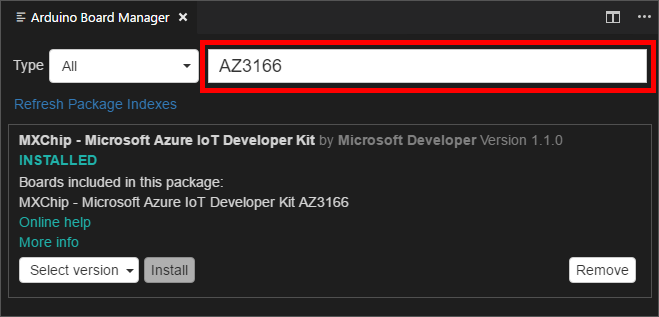
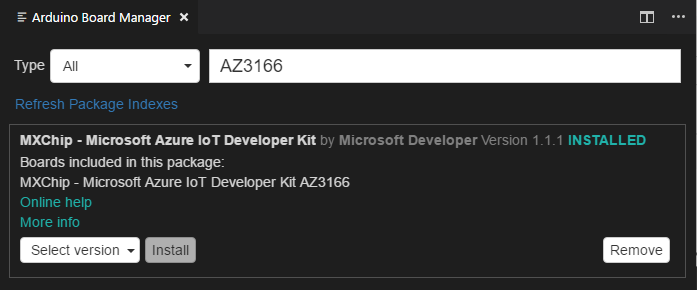
Updated HOL 1

Changed region(s): [[0.0, 0.1241, 1.0, 0.9621], [0.0, 0.0, 1.0, 0.0931], [0.0, 0.9931, 1.0, 1.0]]

diff --git a/HOL 2/HOL 2 - Functions and Event Hubs.md b/HOL 2/HOL 2 - Functions and Event Hubs.md
@@ -8,7 +8,7 @@
 
 In Lab 1, you configured an [MXChip](https://microsoft.github.io/azure-iot-developer-kit/) to transmit accelerometer data to an Azure IoT Hub. That IoT Hub receives a stream of data revealing the device's 3D orientation in space. It knows, for example, whether the device is tilted forward or backward (and by how much), and it knows when the device is rotated left and right. The app that you uploaded to the device transmits an event containing X, Y, and Z accelerometer readings every two seconds.
 
-In Lab 2, you will build the infrastructure necessary to fly a simulated aircraft using your MXChip. That infrastructure will consist of an Azure function that transforms accelerometer readings passing through the IoT Hub into flight data denoting the position and attitude of an aircraft, as well as an Azure Event Hub that receives data from the function. Once the function and Event Hub are in place, you will connect a client app named **FlySim** to the Event Hub and practice flying an aircraft using your MXChip. The client app, pictured below, subscribes to events from the Event Hub and shows the position and attitude of your aircraft in real time.
+In Lab 2, you will build the infrastructure necessary to fly a simulated aircraft using your MXChip. That infrastructure will consist of an Azure Function that transforms accelerometer readings passing through the IoT Hub into flight data denoting the position and attitude of an aircraft, as well as an Azure Event Hub that receives data from the Azure function. Once the Function and Event Hub are in place, you will connect a client app named **FlySim** to the Event Hub and practice flying an aircraft using your MXChip. The client app, pictured below, subscribes to events from the Event Hub and shows the position and attitude of your aircraft in real time.
 
 ![](Images/app-in-flight.png)
 
@@ -115,9 +115,9 @@ Now that the storage account has been created, it's time to create an Azure func
 <a name="Exercise3"></a>
 ## Exercise 3: Write an Azure function to transform data ##
 
-[Azure functions](https://azure.microsoft.com/services/functions/) enable you to deploy code to the cloud and execute it there without separately spinning up virtual machines (VMs) or other infrastructure to host them. They can be written in a number of languages, including C#, F#, JavaScript, Python, Bash, and PowerShell, and they are easily connected to IoT Hubs and Event Hubs.
+[Azure Functions](https://azure.microsoft.com/services/functions/) enable you to deploy code to the cloud and execute it there without separately spinning up virtual machines (VMs) or other infrastructure to host them. They can be written in a number of languages, including C#, F#, JavaScript, Python, Bash, and PowerShell, and they are easily connected to IoT Hubs and Event Hubs.
 
-You can write Azure functions in the Azure Portal, or you can write them in Visual Studio 2017. In this exercise, you will use Visual Studio 2017 to write an Azure function that transforms raw accelerometer data arriving at the IoT Hub you created in Lab 1 into flight data denoting the latitude, longitude, altitude, airspeed, heading, and attitude (pitch and roll) of an aircraft, and that transmits the transformed data to the Event Hub you created in [Exercise 1](#Exercise1). 
+You can write Azure Functions in the Azure Portal, or you can write them in Visual Studio 2017. In this exercise, you will use Visual Studio 2017 to write an Azure function that transforms raw accelerometer data arriving at the IoT Hub you created in Lab 1 into flight data denoting the latitude, longitude, altitude, airspeed, heading, and attitude (pitch and roll) of an aircraft, and that transmits the transformed data to the Event Hub you created in [Exercise 1](#Exercise1). 
 
 1. Start Visual Studio 2017 and use the **Help** > **About Microsoft Visual Studio** command to verify that you are running Visual Studio 15.3 or higher. If not, update Visual Studio now.
 

diff --git a/HOL 1/HOL 1 - MXChip.md b/HOL 1/HOL 1 - MXChip.md
@@ -126,7 +126,7 @@ In order to write code and upload it to the MXChip, you need to set up a develop
  
 1. After the developer kit is installed, unplug the USB cable from your device. Then start Visual Studio Code.
 
-1. Select **About** from Visual Studio Code's **Help** menu and verify that Visual Studio Code 1.16.0 or higher is installed. If it's not, select **Restart to Update...** from the **Help** menu to update to the latest version, or go to https://code.visualstudio.com/ and download the latest version. Then restart Visual Studio Code.
+1. Select **About** from Visual Studio Code's **Help** menu and verify that Visual Studio Code 1.17.0 or higher is installed. If it's not, select **Check for Updates...** from the **Help** menu and update to the latest version, or go to https://code.visualstudio.com/ and download the latest version. Then restart Visual Studio Code.
 
 1. Plug the USB cable back into the device. If you are prompted to allow Java traffic through the firewall, click **Allow Access**.
  
@@ -136,13 +136,13 @@ In order to write code and upload it to the MXChip, you need to set up a develop
 
     _Launching the Arduino Board Manager_ 
 
-1. Type "AZ3166" into the search box and verify that version 1.1.0 or higher of the IoT Developer Kit is installed. If not, click the **Select version** button and select the latest version from the list. Then click the **Install** button to update the developer kit. 
+1. Type "AZ3166" into the search box and verify that the latest version of the IoT Developer Kit is installed. If it is not, click the **Select version** button and select the latest version from the list. Then click the **Install** button to update the developer kit. 
  
 	![The VSCode Arduino Board Manager tab is open, showing how to verify the developer kit version number.](Images/vs-check-board-installed.png)
 
     _Verifying the developer kit version number_
 
-1. Open the command palette again and select **Arduino: Library Manager**. Type "Arduino Json" into the search box. If the version of the package that's installed isn't the latest version shown in the drop-down list, select the latest version from the list and click **Install** to install it.
+1. Open the command palette again and select **Arduino: Library Manager**. Type "ArduinoJson" into the search box. If the version of the package that's installed isn't the latest version shown in the drop-down list, select the latest version from the list and click **Install** to install it.
 
 	![The VSCode Arduino Library Manager tab is open, showing the install button selected for the updating of the ArduinoJson library.](Images/vs-install-json.png)
 
